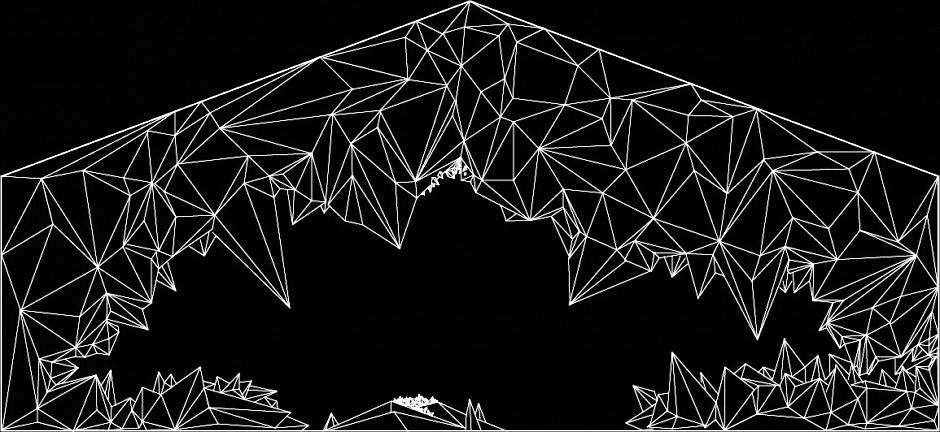
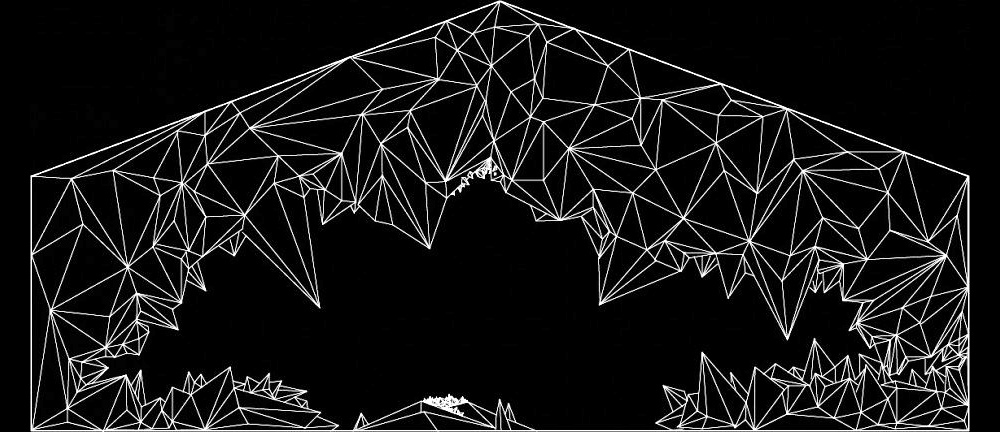
fixed touch sending, changed size of cave

Changed region(s): [[0.0, 0.0, 1.0, 1.0], [0.5245, 0.9931, 0.5553, 1.0]]

diff --git a/public/javascripts/remote.js b/public/javascripts/remote.js
@@ -155,12 +155,12 @@ $(document).on( 'ready', function() {
 		else if ( json.type == 'setActive' ) {
 			if ( isActive && !json.active ) {
 				// console.log( 'becoming inactive' );
-				// isActive = json.active;
+				isActive = json.active;
 			}
 			else if ( !isActive && json.active ) {
 				// console.log( 'becoming active' );
 				// WHEN WE BECOME ACTIVE, SEND THE EFFECT WE ARE USING
-				// isActive = json.active;
+				isActive = json.active;
 			}
 			// touchInterval = json.touchInterval;
 			$('#activityStatus').text( (isActive?'ACTIVE/':'INACTIVE/') + remoteNum ).addClass( isActive?'btn-success':'btn-danger').removeClass( isActive?'btn-danger':'btn-success' );
@@ -197,6 +197,7 @@ $(document).on( 'ready', function() {
 		countdown.slideOut();
 		// put away the menu
 		menu.hide();
+		isActive = true;
 	}
 
 	function deactivate( json ) {
@@ -216,6 +217,7 @@ $(document).on( 'ready', function() {
 		countdown.begin( json.countdownLength );
 		// bring out the menu
 		menu.show();
+		isActive = false;
 	}
 
 	function onResize( e ) {
@@ -289,6 +291,7 @@ $(document).on( 'ready', function() {
 	}
 
 	function sendTouches() {
+
 		var keys = Object.keys( activeTouches );
 		if ( keys.length == 0 )
 			return;

diff --git a/socketstuff.js b/socketstuff.js
@@ -80,6 +80,11 @@ module.exports = function( params ) {
 
 			if ( json.type == 'touchCoord' ) {
 
+				// if ( json.phase == 'start' )
+				// 	console.log( 'touch started');
+				// if ( json.phase == 'end' )
+				// 	console.log( 'touch ended' );
+				
 				if ( ws.remote3D ) {
 					sendOscTouch( '/touch3D', json.phase, json.index, json.x, json.y, json.w, json.h );
 				}

diff --git a/public/stylesheets/style.css b/public/stylesheets/style.css
@@ -40,7 +40,7 @@ canvas {
 }
 
 #canvas {
-	-webkit-filter: brightness(0%);
+	/*-webkit-filter: brightness(0%);*/
 }
 
 #fingercanvas {
